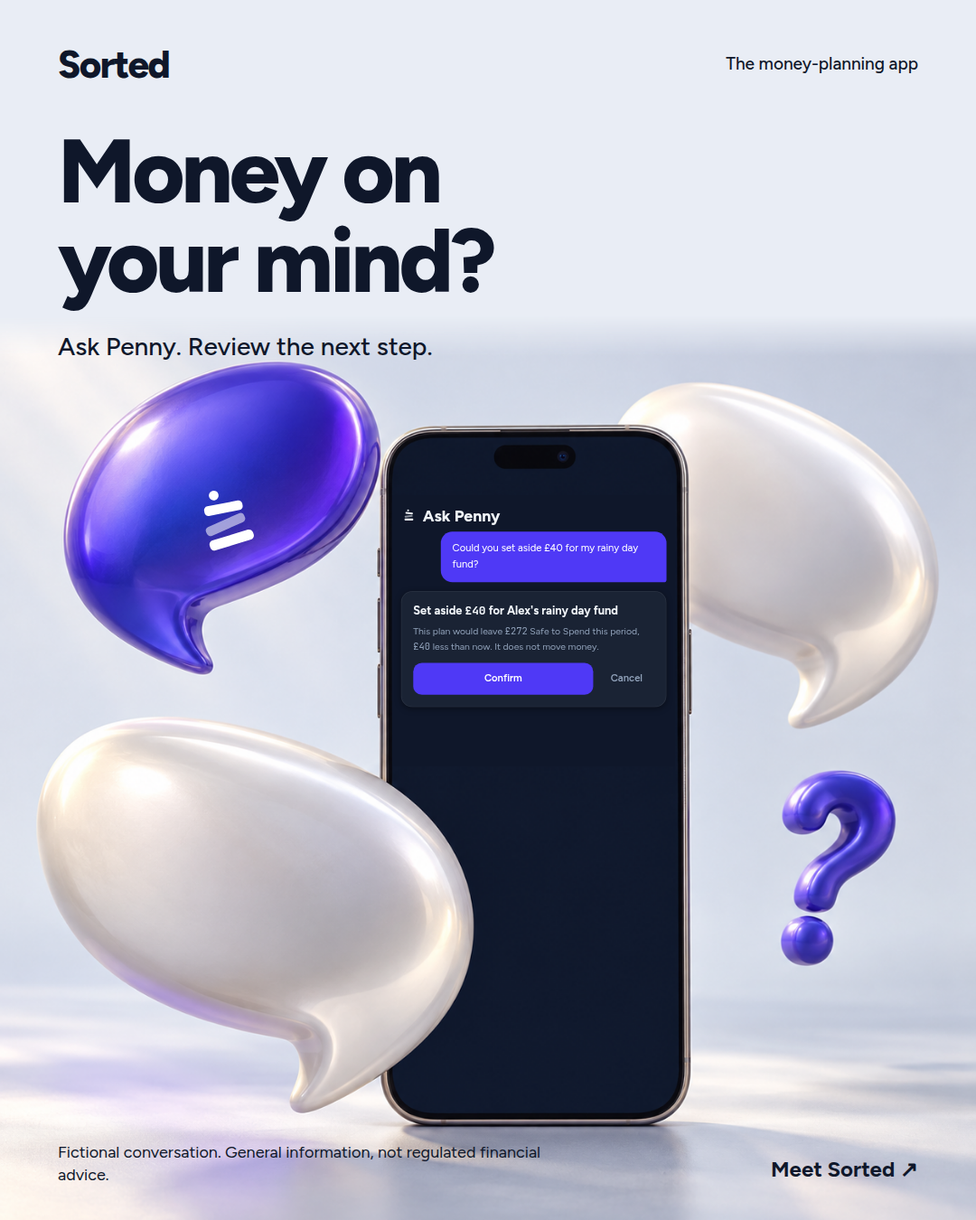
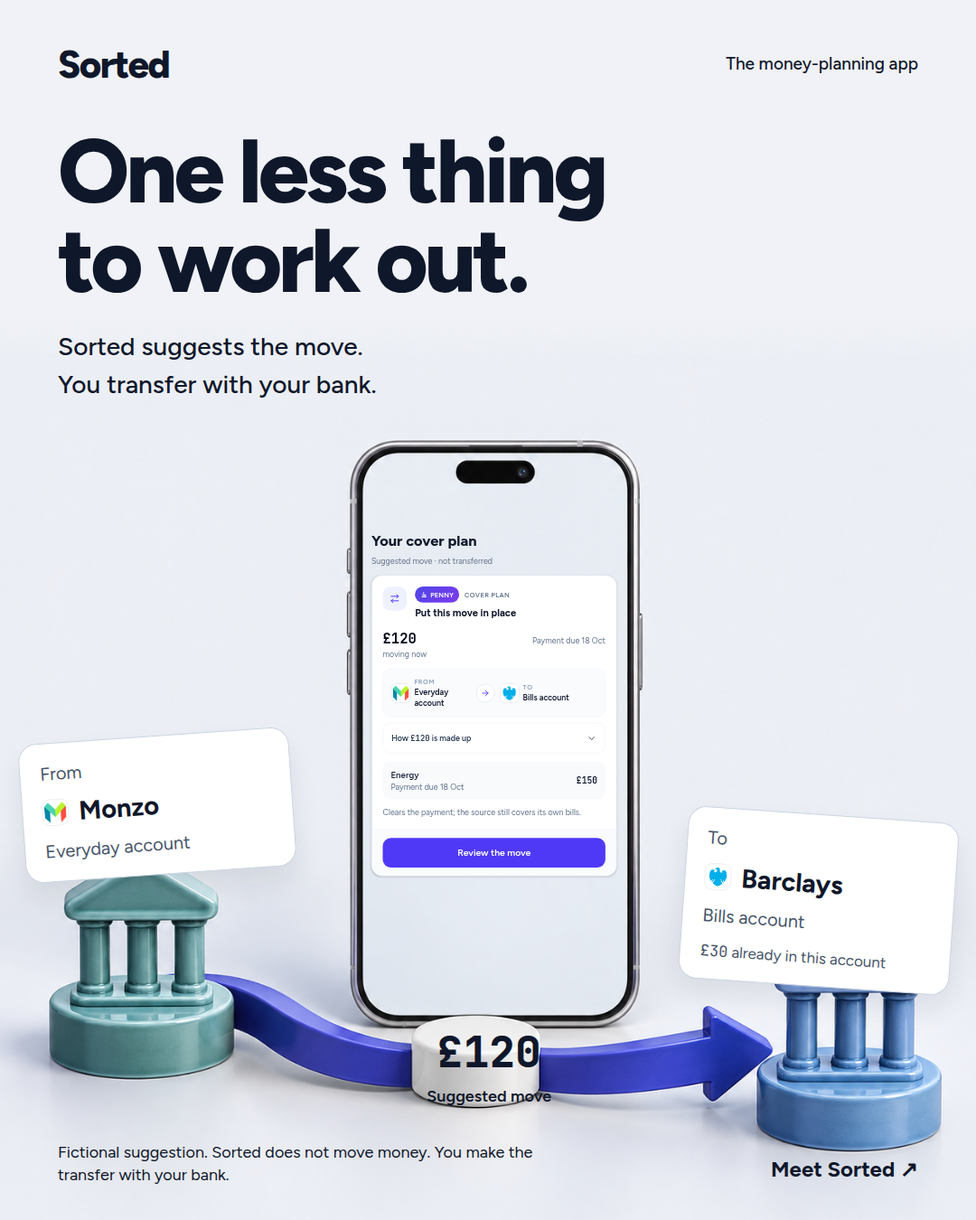
design(C22): gather payments outside phone and show suggested money moves
Keep C unchanged; replace D and E with reconciled bank-level evidence, generated 3D scenery and real production components. Preserve the AIS-only transfer boundary.

diff --git a/frontend/app/design/marketing-kit/CampaignWorlds.tsx b/frontend/app/design/marketing-kit/CampaignWorlds.tsx
@@ -3,15 +3,15 @@
 import Link from "next/link";
 import { useSearchParams } from "next/navigation";
 import { useEffect, useLayoutEffect, useRef, useState } from "react";
-import PennyMark from "@/components/PennyMark";
+import { ForecastContext, MovementCampaignProof, MovementGraphics, PaymentGraphics, UpcomingCampaignProof } from "./CampaignProof";
 import ProductionProof from "./ProductionProof";
 import { SAFE_TO_SPEND } from "./fixtures";
 import styles from "./worlds.module.css";
 
 const worlds = {
   c: { name: "Real life", image: "real-life", feature: "safe-to-spend", title: ["Life happens.", "See what fits."], sub: "Meet your Safe to Spend.", summary: "Everyday life, lifted out of the screen.", detail: "A tactile burst of coffee, groceries and plans around the real Safe to Spend view. Bright, human and built for a first introduction to Sorted.", film: "The objects lift into view, then settle around the phone. The estimated Safe to Spend card comes forward and holds still to read.", legal: "Fictional example. Safe to Spend is an estimate, not financial advice.", theme: "light" },
-  d: { name: "Payday path", image: "payday-path", feature: "upcoming", title: ["See it coming.", "Before it goes."], sub: "Upcoming payments. Account by account.", summary: "The days before payday become a place.", detail: "A sculpted calendar winds around the phone. A cinematic direction for showing what is coming and where a payment could leave an account short.", film: "The camera follows the calendar towards the phone, then stops on the account view. Payment risks stay visible, not hidden behind an upbeat headline.", legal: "Fictional forecast. Payments can take a day or two to appear.", theme: "dark" },
-  e: { name: "Ask Penny", image: "penny", feature: "penny", title: ["Money on", "your mind?"], sub: "Ask Penny. Review the next step.", summary: "A conversation you can almost touch.", detail: "Pearlescent speech bubbles rise around a dark phone, with Penny's indigo and violet reserved for the conversation. The real proposal keeps you in control.", film: "A question rises from the phone. Penny's proposal comes forward with Confirm and Cancel both visible. No money moves and nothing confirms itself.", legal: "Fictional conversation. General information, not regulated financial advice.", theme: "dark" },
+  d: { name: "Payday path", image: "connected-payments", feature: "upcoming", title: ["See it coming.", "Before it goes."], sub: "Upcoming payments, brought together.", summary: "Different accounts. One clear picture.", detail: "Two payment cards sit outside the phone at a readable scale. Calendar trails gather Monzo and Barclays activity into the forecast, with dates, amounts and the payment shortfall still visible.", film: "The bank activity arrives along the paper trails. Mobile and Energy lift into view, then the forecast settles. These are information flows, not bank transfers.", legal: "Fictional forecast. Payments can take a day or two to appear. Account information via Finexer Ltd. AURIQ LTD is its agent.", theme: "dark" },
+  e: { name: "Money movement", image: "money-movement", feature: "suggestions", title: ["One less thing", "to work out."], sub: "Sorted suggests the move.\nYou transfer with your bank.", summary: "The move, already worked out.", detail: "A clear route from Monzo Everyday to Barclays Bills, with a suggested £120 move. The real cover plan explains why. This replaces the Penny bubbles with the money task itself.", film: "The source and destination appear, then the suggested amount is placed on the route. Hold on the cover plan. The sequence ends before any transfer: you make it with your bank.", legal: "Fictional suggestion. Sorted does not move money. You make the transfer with your bank.", theme: "light" },
 } as const;
 type Campaign = keyof typeof worlds;
 type Canvas = "feed" | "story";
@@ -20,8 +20,8 @@ function RealScreen({ campaign }: { campaign: Campaign }) {
   const world = worlds[campaign];
   return <div className={`${styles.screen} ${world.theme === "dark" ? "dark" : ""}`} inert>
     <div className={styles.screenInner}>
-      <div className={styles.screenTitle}>{campaign === "c" ? "Home" : campaign === "d" ? "Before payday" : <><PennyMark size={22} /> Ask Penny</>}</div>
-      <ProductionProof feature={world.feature} />
+      <div className={styles.screenTitle}>{campaign === "c" ? "Home" : campaign === "d" ? "Before payday" : "Your cover plan"}</div>
+      {campaign === "d" ? <UpcomingCampaignProof /> : campaign === "e" ? <MovementCampaignProof /> : <ProductionProof feature={world.feature} />}
     </div>
   </div>;
 }
@@ -32,13 +32,15 @@ export function CampaignArtboard({ campaign, canvas }: { campaign: Campaign; can
   return <article data-campaign-artboard className={`${styles.artboard} ${styles[campaign]} ${canvas === "story" ? styles.story : ""}`} aria-label={`${world.name} campaign concept`}>
     <div className={styles.brand}>Sorted<span>The money-planning app</span></div>
     <div className={styles.headline}><h2>{world.title.map((line) => <span key={line}>{line}</span>)}</h2><p>{world.sub}</p></div>
+    {campaign === "d" && <ForecastContext />}
     <div data-campaign-scene className={styles.scene}>
       {/* Generated scenery has a blank screen. Product UI is rendered above it. */}
       {/* eslint-disable-next-line @next/next/no-img-element */}
       <img src={`/design-media/c22/worlds/${world.image}.png`} width={1254} height={1254} alt="" />
       <RealScreen campaign={campaign} />
       {campaign === "c" && safeToSpend != null && <div className={styles.liftedFigure}><span className={styles.money}>{new Intl.NumberFormat("en-GB", { style: "currency", currency: "GBP", maximumFractionDigits: 0 }).format(safeToSpend)}</span><span>Safe to Spend<span className={styles.estimate}>Estimated · until 30 Oct</span></span></div>}
-      {campaign === "e" && <div className={styles.pennySculpture}><PennyMark size={92} /></div>}
+      {campaign === "d" && <PaymentGraphics />}
+      {campaign === "e" && <MovementGraphics />}
     </div>
     <footer className={styles.artFooter}><p>{world.legal}</p><span>Meet Sorted <span aria-hidden="true">↗</span></span></footer>
   </article>;
@@ -66,7 +68,7 @@ export default function CampaignWorlds() {
   }, []);
   if (exact) return <div className={styles.exact}><CampaignArtboard campaign={campaign} canvas={canvas} /></div>;
   return <main className={styles.workbench}>
-    <header className={styles.header}><Link href="/design">Design library</Link><h1>Less screenshot.<br />More campaign.</h1><p>Three new directions for C22. Sculpted phones, real-life objects and app elements that step out of the screen.</p></header>
+    <header className={styles.header}><Link href="/design">Design library</Link><h1>Less screenshot.<br />More campaign.</h1><p>C stays as it was. D now gathers upcoming payments outside the phone; E replaces the Penny bubbles with a suggested money move.</p></header>
     <div className={styles.controls}>
       <fieldset><legend>Creative direction</legend>{(Object.keys(worlds) as Campaign[]).map((id) => <button type="button" key={id} aria-pressed={campaign === id} onClick={() => setCampaign(id)}>{id.toUpperCase()} · {worlds[id].name}</button>)}</fieldset>
       <fieldset><legend>Canvas</legend>{(["feed", "story"] as const).map((id) => <button type="button" key={id} aria-pressed={canvas === id} onClick={() => setCanvas(id)}>{id === "feed" ? "Feed" : "Story"}</button>)}</fieldset>

diff --git a/frontend/app/design/marketing-kit/CampaignProof.tsx b/frontend/app/design/marketing-kit/CampaignProof.tsx
@@ -1,0 +1,75 @@
+"use client";
+
+import { Smartphone, Zap } from "lucide-react";
+import { BANK_META, BankBadge, bankKey, bankLogoSrc } from "@/components/AccountMiniCard";
+import { MoveCard } from "@/components/HomeBrief";
+import UpcomingHeroCard from "@/components/upcoming/UpcomingHeroCard";
+import UpcomingRow, { type UpcomingRowModel } from "@/components/upcoming/UpcomingRow";
+import { MOVE_SUGGESTION, UPCOMING_HERO } from "./fixtures";
+import data from "./campaign-data.json";
+import styles from "./worlds.module.css";
+
+export const campaignMoney = (amount: number) => new Intl.NumberFormat("en-GB", { style: "currency", currency: "GBP", maximumFractionDigits: 0 }).format(amount);
+const noOp = () => {};
+const paymentsTotal = data.payments.reduce((sum, payment) => sum + payment.amount, 0);
+
+function BankIdentity({ bank }: { bank: string }) {
+  const meta = BANK_META[bankKey({ provider: bank })];
+  return <BankBadge logoSrc={bankLogoSrc(meta)} initials={meta?.initials ?? bank.slice(0, 2)} altText="" brandBg={meta?.bg} size={28} />;
+}
+
+export function UpcomingCampaignProof() {
+  return <section data-marketing-proof="upcoming"><p className={styles.proofCaption}>{data.person} · {data.period}</p><UpcomingHeroCard {...UPCOMING_HERO} spendableNow={data.everyday.balance + data.bills.balance} runwayBillsTotal={paymentsTotal} runway={data.everyday.balance + data.bills.balance - paymentsTotal} /></section>;
+}
+
+export function ForecastContext() {
+  const opening = data.everyday.balance + data.bills.balance;
+  return <div className={styles.forecastContext}>
+    <p><span>{campaignMoney(opening)}</span> across these accounts · <span>−{campaignMoney(paymentsTotal)}</span> expected payments</p>
+    <p><span>{campaignMoney(opening - paymentsTotal)}</span> projected at payday, before your <span>{campaignMoney(data.buffer)}</span> buffer</p>
+  </div>;
+}
+
+export function PaymentGraphics() {
+  return <div data-payment-graphics className="dark" inert>{data.payments.map((payment, index) => {
+    const available = index === 0 ? data.everyday.balance : data.bills.balance;
+    const shortfall = Math.max(0, payment.amount - available);
+    const model: UpcomingRowModel = {
+      rowKey: payment.id, type: "bill", name: payment.name, amount: payment.amount,
+      expectedDate: payment.date, accountLabel: payment.account,
+      accountBalance: available, accountShort: shortfall > 0,
+      coverage: { shortfall }, after: { kind: "balance", value: available - payment.amount },
+      categoryColour: index === 0 ? "#22d3ee" : "#60a5fa", CategoryIcon: index === 0 ? Smartphone : Zap,
+    };
+    return <section data-payment-graphic={payment.id} key={payment.id} className={`${styles.paymentGraphic} ${index === 0 ? styles.paymentLeft : styles.paymentRight}`}>
+      <div className={styles.paymentInner}>
+        <div className={styles.bankHeading}><BankIdentity bank={payment.bank} /><strong>{payment.bank}</strong><span>Expected</span></div>
+        <p className={styles.paymentDate}>{new Intl.DateTimeFormat("en-GB", { weekday: "short", day: "numeric", month: "short", timeZone: "UTC" }).format(new Date(`${payment.date}T12:00:00Z`))}</p>
+        <UpcomingRow model={model} treatment="account-coverage" onOpen={noOp} onDismiss={noOp} />
+      </div>
+    </section>;
+  })}</div>;
+}
+
+export function MovementCampaignProof() {
+  const item = {
+    ...MOVE_SUGGESTION,
+    body: `Your bills account needs ${campaignMoney(data.move)} for payments before 30 October.`,
+    move_map: {
+      from: { account_id: "alex-everyday", name: data.everyday.name, provider: data.everyday.bank, balance: data.everyday.balance, safe_note: "Keeps money for your own payments" },
+      to: { account_id: "alex-bills", name: data.bills.name, provider: data.bills.bank, balance: data.bills.balance, incoming: `${campaignMoney(data.move)} suggested` },
+    },
+    plan_dest: { account_id: "alex-bills", name: data.bills.name, provider: data.bills.bank, balance: data.bills.balance, needs_total: data.payments[1].amount, needs_by: "18 Oct", needs_by_date: data.payments[1].date, bills: [{ label: data.payments[1].name, amount: data.payments[1].amount, expected_date: data.payments[1].date }] },
+  };
+  return <section data-marketing-proof="movement"><p className={styles.proofCaption}>Suggested move · not transferred</p><MoveCard item={item} hideNetWorth={false} maskAmounts={(text) => text} previewMode /></section>;
+}
+
+export function MovementGraphics() {
+  return <div data-movement-graphics>
+    {[data.everyday, data.bills].map((account, index) => <section key={account.bank} className={`${styles.movementAccount} ${index === 0 ? styles.moveFrom : styles.moveTo}`}>
+      <p>{index === 0 ? "From" : "To"}</p><div><BankIdentity bank={account.bank} /><strong>{account.bank}</strong></div><span>{account.name}</span>
+      {index === 1 && <p className={styles.existingBalance}><span>{campaignMoney(account.balance)}</span> already in this account</p>}
+    </section>)}
+    <div className={styles.moveAmount}><strong>{campaignMoney(data.move)}</strong><span>Suggested move</span></div>
+  </div>;
+}

diff --git a/frontend/app/design/marketing-kit/worlds.module.css b/frontend/app/design/marketing-kit/worlds.module.css
@@ -33,7 +33,7 @@
 .headline { position:absolute; left:64px; top:140px; z-index:3; }
 .headline h2 { font-size:100px; font-weight:800; line-height:.99; letter-spacing:-.04em; }
 .headline h2 span { display:block; }
-.headline p { font-size:28px; margin-top:24px; font-weight:500; }
+.headline p { font-size:28px; margin-top:24px; font-weight:500; white-space:pre-line; }
 .scene { position:absolute; width:1080px; height:1080px; top:336px; left:0; }
 .scene>img { display:block; width:100%; height:100%; object-fit:contain; mask-image:linear-gradient(to bottom,transparent,#000 4%,#000 94%,transparent); }
 .screen { position:absolute; left:33.4%; top:17.8%; width:32%; height:64%; color:#0f172a; background:#f0f2f7; overflow:hidden; }
@@ -51,21 +51,45 @@
 .artFooter>span { font-size:24px; font-weight:700; white-space:nowrap; }
 .d { background:#0f172a; color:#f8fafc; }
 .d .scene { top:350px; }
-.d .screen { left:35.9%; top:15%; width:30.2%; height:49.5%; }
-.d .screenInner { transform:scale(.8363); }
+.d .screen { left:36.7%; top:21%; width:26.7%; height:29%; background:transparent; }
+.d .screenInner { transform:scale(.73938); }
 .d .headline h2 { font-size:98px; }
 .d .artFooter { background:#0f172a; padding:12px 16px; border-radius:8px; }
-.e { background:#e9edf5; }
+.forecastContext { position:absolute; top:422px; left:64px; right:64px; z-index:3; font-size:22px; line-height:1.45; color:#cbd5e1; }
+.forecastContext span, .existingBalance span { font-family:var(--font-jbmono),monospace; font-variant-numeric:tabular-nums; }
+.e { background:#f0f2f7; }
 .e .scene { top:350px; }
-.e .screen { left:40.2%; top:18.3%; width:29%; height:27.8%; }
-.e .screenInner { transform:scale(.803); }
+.e .screen { left:37.2%; top:21%; width:26.8%; height:47%; background:transparent; }
+.e .screenInner { transform:scale(.74215); }
 .e .screenTitle { margin-bottom:8px; }
-.e .screen :global([data-marketing-proof])>p:first-child { display:none; }
-.pennySculpture { position:absolute; left:19%; top:17%; transform:rotate(-17deg); }
-.pennySculpture svg { color:white; }
+.proofCaption { font-size:12px; color:#64748b; margin-bottom:12px; }
+.d .proofCaption { color:#94a3b8; }
+.paymentGraphic { position:absolute; width:430px; height:210px; border-radius:22px; background:#1e293b; color:#f1f5f9; border:1px solid #64748b; box-shadow:0 22px 32px #02061755; z-index:2; }
+.paymentLeft { left:24px; top:51%; transform:rotate(-5deg); }
+.paymentRight { right:24px; top:60%; transform:rotate(5deg); }
+.paymentInner { width:430px; }
+.bankHeading { display:flex; align-items:center; gap:9px; padding:14px 16px 4px; }
+.bankHeading strong { font-size:28px; }
+.bankHeading>span:last-child { margin-left:auto; font-size:16px; color:#cbd5e1; }
+.paymentDate { font-size:18px; padding:0 16px; color:#cbd5e1; }
+.paymentGraphic :global([data-bill-key]) p { font-size:16px; line-height:22px; }
+.paymentGraphic :global([data-bill-key]) p:global(.font-semibold) { font-size:22px; line-height:28px; }
+.paymentGraphic :global([data-bill-key]) p:global(.font-mono) { font-size:30px; line-height:38px; }
+.movementAccount { position:absolute; width:300px; padding:18px 22px; background:#fff; color:#0f172a; border:1px solid #cbd5e1; border-radius:20px; box-shadow:0 16px 30px #0f172a15; }
+.moveFrom { left:24px; top:43%; transform:rotate(-4deg); }
+.moveTo { right:24px; top:51%; transform:rotate(4deg); }
+.movementAccount>p { font-size:20px; color:#475569; margin-bottom:6px; }
+.movementAccount>div { display:flex; gap:12px; align-items:center; }
+.movementAccount strong { font-size:29px; }
+.movementAccount>span { display:block; font-size:20px; margin-top:6px; color:#475569; }
+.movementAccount .existingBalance { margin:12px 0 0; font-size:17px; }
+.moveAmount { position:absolute; left:39%; top:72%; width:240px; text-align:center; }
+.moveAmount strong { display:block; font-family:var(--font-jbmono),monospace; font-variant-numeric:tabular-nums; font-size:48px; font-weight:750; }
+.moveAmount span { display:block; font-size:18px; font-weight:600; }
 .story { height:1920px; }
 .story .brand { top:158px; right:140px; }
 .story .headline { top:280px; }
+.story .forecastContext { top:562px; }
 .story .scene { top:630px; }
 .story .artFooter { bottom:330px; right:140px; }
 .story .artFooter p { max-width:510px; }

diff --git a/frontend/app/design/page.tsx b/frontend/app/design/page.tsx
@@ -34,9 +34,9 @@ const ROUTES: PreviewRoute[] = [
   {
     slug: "marketing-kit",
     name: "Sorted marketing kit · C22",
-    description: "New campaign directions: C Real life, D Payday path and E Ask Penny. Generated 3D scenes with real app components, feed/story formats. Earlier product-proof material and copy retained separately. Creative selection, not approved advertising.",
+    description: "C Real life retained; D Payday path now gathers real payment cards from different accounts outside the phone; E Money movement replaces Penny bubbles with a suggested transfer route. Generated 3D scenes and production components. Sorted suggests, the user transfers with their bank. Creative review, not approved advertising.",
     states: [{ label: "Light", value: "light" }, { label: "Dark", value: "dark" }],
-    variants: [{ label: "C · Real life", value: "c" }, { label: "D · Payday path", value: "d" }, { label: "E · Ask Penny", value: "e" }],
+    variants: [{ label: "C · Real life", value: "c" }, { label: "D · Payday path", value: "d" }, { label: "E · Money movement", value: "e" }],
     group: "current",
   },
   {

diff --git a/frontend/app/design/marketing-kit/check_worlds.py b/frontend/app/design/marketing-kit/check_worlds.py
@@ -31,7 +31,7 @@ SHELL_READS = {
 
 def tag_scenes() -> None:
     """Embed prompt provenance without decoding or changing generated pixels."""
-    for name in ("real-life", "payday-path", "penny"):
+    for name in ("real-life", "connected-payments", "money-movement"):
         destination = OUT / f"{name}.png"
         source = json.loads((OUT / f"{name}.prompt.json").read_text())
         raw = destination.read_bytes()
@@ -129,6 +129,17 @@ def main() -> None:
             assert page.locator("[data-campaign-artboard]").count() == 1
             assert page.locator("[data-campaign-scene]").count() == 1
             assert page.locator("[data-marketing-proof]").count() >= 1
+            if campaign == "d":
+                assert page.locator("[data-payment-graphic]").count() == 2
+                assert page.locator('[data-payment-graphic="mobile"]').get_by_text("Monzo", exact=True).is_visible()
+                assert page.locator('[data-payment-graphic="energy"]').get_by_text("Barclays", exact=True).is_visible()
+                assert page.locator('[data-payment-graphic="energy"]').get_by_text("−£150.00", exact=True).is_visible()
+                assert page.get_by_text("£610 across these accounts", exact=False).is_visible()
+                assert page.get_by_text("£422 projected at payday, before your £110 buffer", exact=True).is_visible()
+            if campaign == "e":
+                assert page.locator("[data-movement-graphics]").get_by_text("Suggested move", exact=True).is_visible()
+                assert page.get_by_text("You transfer with your bank.", exact=False).first.is_visible()
+                assert page.get_by_text("£30 already in this account", exact=True).is_visible()
             assert page.evaluate("document.documentElement.scrollWidth <= innerWidth"), (filename, "horizontal overflow")
             page.screenshot(path=str(REVIEW / filename), full_page=True)
             context.close()
@@ -171,7 +182,7 @@ def main() -> None:
             context, page = make_page(390, 900)
             visit(page)
             # Button controls are intentionally named assertions, rather than brittle order checks.
-            for campaign, label in (("c", "C · Real life"), ("d", "D · Payday path"), ("e", "E · Ask Penny")):
+            for campaign, label in (("c", "C · Real life"), ("d", "D · Payday path"), ("e", "E · Money movement")):
                 button = page.get_by_role("button", name=label, exact=True)
                 button.click()
                 assert urlparse(page.url).query.startswith(f"campaign={campaign}") or f"campaign={campaign}" in page.url

diff --git a/frontend/app/design/marketing-kit/README.md b/frontend/app/design/marketing-kit/README.md
@@ -1,12 +1,12 @@
 # C22 marketing-kit campaign worlds
 
-This private review surface contains the current C22 creative-direction round. Kevin rejected the earlier gallery-led campaign treatment and asked for advertising that makes the money question tangible: 3D-style phones, physical objects and app elements appearing to come out of the screen.
+This private review surface contains the current C22 creative-direction round. Kevin rejected the earlier gallery-led campaign treatment and asked for advertising that makes the money question tangible: 3D-style phones, physical objects and app elements appearing to come out of the screen. This is an ordinary campaign extension, not an app-identity change: `DESIGN.md` remains governing.
 
 The default route, `/design/marketing-kit`, presents three still concepts:
 
 - **C · Real life**: coffee, groceries and plans around Safe to Spend.
-- **D · Payday path**: a sculpted calendar route to an upcoming-payment view.
-- **E · Ask Penny**: pearlescent speech forms around Penny's proposal.
+- **D · Payday path**: actual upcoming payments from different banks gathered outside a forecast phone screen.
+- **E · Money movement**: an explained, proposed move between accounts that leaves the bank transfer with the customer.
 
 The former A/B work remains available only as the product-proof and copy library at `/design/marketing-kit?library=1`. It is supporting material, not the current campaign choice and not approved campaign creative.
 
@@ -15,15 +15,21 @@ The former A/B work remains available only as the product-proof and copy library
 Each concept combines two deliberately separate layers:
 
 - The scene asset is generated 3D-style advertising artwork with a blank phone screen. Its checked-in prompt sidecar records the tool, prompt, synthetic status and review status in `frontend/public/design-media/c22/worlds/*.prompt.json`.
-- The visible phone screen is composed in the browser from the actual fixture-driven production components in `ProductionProof.tsx`. It is not generated interface lettering or a dashboard lookalike. Controls are inert: no bank connects, no money moves and no consent is given.
+- The visible phone screen is composed in the browser from actual fixture-driven production components. C uses `ProductionProof.tsx`; D uses `UpcomingHeroCard`; E uses `MoveCard`. D's two exterior cards use `UpcomingRow`; E's exterior account labels use the real bank identity data. It is not generated interface lettering or a dashboard lookalike. Controls are inert: no bank connects, no money moves and no consent is given.
+
+The fictional D/E fixture is deliberately reconciled: Monzo Everyday £580 plus Barclays Bills £30 gives £610; Mobile £38 plus Energy £150 gives £188 in upcoming payments; £610 less £188 gives a £422 forecast; after the £110 buffer, Safe to Spend is £312. E proposes £120 from Monzo to Barclays, helping cover Barclays' £150 Energy payment. It is a suggestion only, not an instruction or completed transfer.
+
+Sorted is an account-information-service-only product. It reads information from accounts the customer connects; it never initiates payments, holds money or moves money between accounts. The customer makes any transfer with their bank. This is the product boundary in [`frontend/content/terms.md`](../../../content/terms.md) and [`frontend/content/privacy.md`](../../../content/privacy.md), and it applies to campaign copy, art and any future film.
 
 The generated scene assets are synthetic and unapproved creative-direction material. They do not alter the Sorted app identity or `DESIGN.md`. Figtree, JetBrains Mono for money, slate grounds, solid indigo actions and Penny's reserved indigo-to-violet treatment remain the governing visual system.
 
 ## Current status and provenance
 
-This new round contains three generated blank-screen scene assets and six campaign exports: feed and story artwork for C, D and E. Responsive browser checks and the six-file asset validator passed on 8 October 2026. Creative selection is still pending. Each exported RGB PNG carries embedded `Source` provenance for the ticket, concept, canvas, browser composition, real production props, separately generated scene and synthetic/draft status. Its `exports.json` record adds dimensions, byte size and SHA-256. Generated source PNGs also carry their exact prompt-sidecar data in `Source` metadata, inserted without changing their pixel data.
+The current revised round has two new generated blank-phone scene assets: `connected-payments` for D and `money-movement` for E. Their prompt sidecars are the provenance record for the generated scenery. The former D `payday-path` and E `penny` source assets are being retired; Git history remains the recovery record. C is unchanged.
 
-The 216 PNGs and ten silent MP4s in `frontend/public/design-media/c22/` belong to the **previous A/B product-proof library**. Those earlier assets passed their recorded asset checks and browser QA on 8 October 2026. They are not verification evidence for C, D or E, and the new round has no finished 3D films. The motion descriptions in the concepts are direction notes only.
+The six current feed/story exports for C, D and E have regenerated. Dev-browser QA passed: the exports carry `Source` provenance for the ticket, concept, canvas, browser composition, real production props, separately generated scene and synthetic/draft status; `exports.json` records their dimensions, byte size and SHA-256; and the RGB dimensions-and-hashes validator passed. The local check also passed at 320px, 390px and 1440px, covering C/D/E views, controls, invalid-query fallback, keyboard focus and the unexpected-API guard. Generated source PNGs retain their exact prompt-sidecar data in `Source` metadata without changing their pixel data.
+
+The 216 PNGs and ten silent MP4s in `frontend/public/design-media/c22/` belong to the **previous A/B product-proof library**. Those earlier assets passed their recorded asset checks and browser QA on 8 October 2026. They are not verification evidence for this revised C/D/E round, and the new round has no finished 3D films. The motion descriptions in the concepts are direction notes only.
 
 ## Review and export commands
 
@@ -41,9 +47,11 @@ The final checker validates that all six expected feed/story exports exist, have
 
 ## Incumbent-design comparison and review evidence
 
-**Verdict: ordinary campaign extension, not an identity redesign.** The C/D/E artboards retain the incumbent Figtree display and body treatment, JetBrains Mono for the Safe to Spend figure, Mist and Midnight canvases, solid indigo controls and Penny's exclusive indigo-to-violet treatment. The money evidence is the actual fixture-driven production proof, not generated or recreated interface copy. C's grocery teal and coffee orange belong to physical campaign objects; D's dark, solid footer backing keeps its disclosure readable. No token, production interaction or global `DESIGN.md` rule changes with this round.
+**Verdict: ordinary campaign extension, not an identity redesign.** The C/D/E artboards retain the incumbent Figtree display and body treatment, JetBrains Mono for money, Mist and Midnight canvases, solid indigo controls and Penny's exclusive indigo-to-violet treatment. The money evidence is actual fixture-driven production proof, not generated or recreated interface copy. C's grocery teal and coffee orange belong to physical campaign objects; D's dark, solid footer backing keeps its disclosure readable. D brings account-level upcoming-payment evidence out of the phone. E replaces Penny's bubbles with a source-to-destination suggestion and does not use Penny's gradient as a money-transfer signal. No token, production interaction or global `DESIGN.md` rule changes with this round.
 
-The production build, final production-content-security-policy browser/export check and six-file validator passed on 8 October 2026. Checks covered desktop, mobile and narrow layouts, controls, fallback queries, keyboard focus and unexpected API requests. The retained A/B library also passed its control and video-playback regression checks. The specialised skill launcher and role were unavailable for this round; a fresh independent substitute reviewer completed the manual audit over the final capture matrix, including D's footer backing, and returned **ship for creative review** with no material findings in scope. This evidence is not an approval to publish.
+The revised campaign's production build passed. Its current production-browser world checker passed all six RGB exports and responsive views, controls, invalid-query fallback, keyboard focus and unexpected-API guard; the Node validator also passed. The retained A/B library's production-browser regression passed across four viewport/theme combinations, controls, film open/close, URL handling, malformed-query fallback, focus and unexpected-API checks. Those retained-library checks do not replace the revised D/E evidence.
+
+An independent review requested a more visible reconciliation, which is now corrected in the artwork: D shows £610 starting cash less £188 payments equals a £422 forecast before the £110 buffer; E shows Barclays' £30 existing balance plus the proposed £120, covering its £150 payment. Root reviewed the freshly corrected exports, and the independent targeted re-review passed with no remaining issue. QA is complete. This frontend campaign evidence does not claim a full backend test gate. The Impeccable launcher and specialised skill roles were unavailable; a fresh independent implementation reviewer and documentation agent provided the manual fallback instead. `DESIGN.md` is unchanged, and this remains an ordinary campaign extension. This evidence is not an approval to publish.
 
 ## Limitations and approvals
 

diff --git a/docs/design/c22-marketing-kit.md b/docs/design/c22-marketing-kit.md
@@ -3,7 +3,25 @@
 Mode: Persuade for campaign exports; Operate for the private review workbench.
 Audience: UK people who worry about money until payday. Continue the G222 and G223 campaign world, not a new brand. All examples are fictional. No paid publication or store submission is authorised by this item.
 
-## Campaign rework, 8 October 2026
+## Connected payments and money movement, 8 October 2026
+
+Kevin's latest direction: D must show upcoming payments gathered from different accounts outside the phone, not squeezed into its screen. E's Penny bubbles do not fit; replace them with money movement and less mental load. C remains unchanged. Skills: impeccable, frontend-design, built-in imagegen. This is another coded creative-review round, not an app redesign or finished film rollout.
+
+THESIS: Bring scattered payment information together, then make the suggested move obvious.
+
+OWN-WORLD: Keep Sorted's Figtree, mono money, slate, indigo and authentic component grammar. Physical banks and paper trails replace generic conversation bubbles. D uses the dark calendar world; E uses a bright, tangible left-to-right route.
+
+STORY: D gathers two dated payments from Monzo and Barclays around one forecast. E names the suggested amount, source and destination, with the bank transfer explicitly left to the user.
+
+FIRST VIEWPORT: One large campaign poster. D has two enlarged real payment rows outside the phone; E has exterior From/To bank labels and a sculpted directional path carrying the suggested amount. The phone contains the real forecast or cover-plan component, not invented controls.
+
+FORM: Refine the pinned 3D campaign world; no new identity seed or global DESIGN.md changes. Signature: account information comes in, a proposed move is explained, never automatically executed. No autoplay. Context launcher remains unavailable; use manual project context and fresh independent review.
+
+FINISH: unreviewed and undocumented is unfinished; this build ends with the finish review, the verdict, DESIGN.md, and every shipping raster carrying its provenance
+
+Product boundary verified against the actual feature and published product copy: Sorted provides account information and suggestions, not payment initiation. No in-app authorisation/automatic-transfer/success claim. C22's current D/E fictional fixture is Monzo £580 plus Barclays £30; mobile £38 plus energy £150; pooled balance £422, Safe to Spend £312 after £110 buffer, proposed £120 from Monzo to Barclays. The earlier reference library keeps its separately valid £542/£68 example.
+
+## Earlier campaign-world round, 8 October 2026
 
 Kevin rejected the gallery-led creative approach: this must feel like advertising, with 3D phones, physical icons and app elements coming out of the screen. Impeccable, frontend-design and built-in image generation guide this round. The brand system remains Sorted's; this is a campaign extension, not a replacement app identity. Three coded campaign concepts are proposed before a full asset rollout. Earlier A/B exports remain supporting product-proof material, not approved campaign creative.
 
